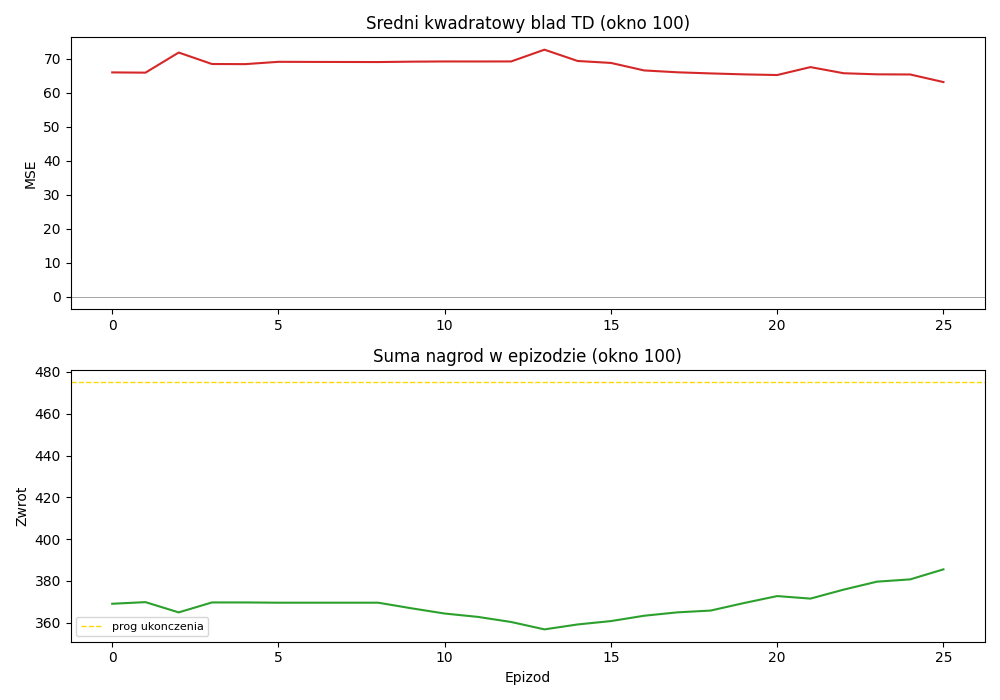
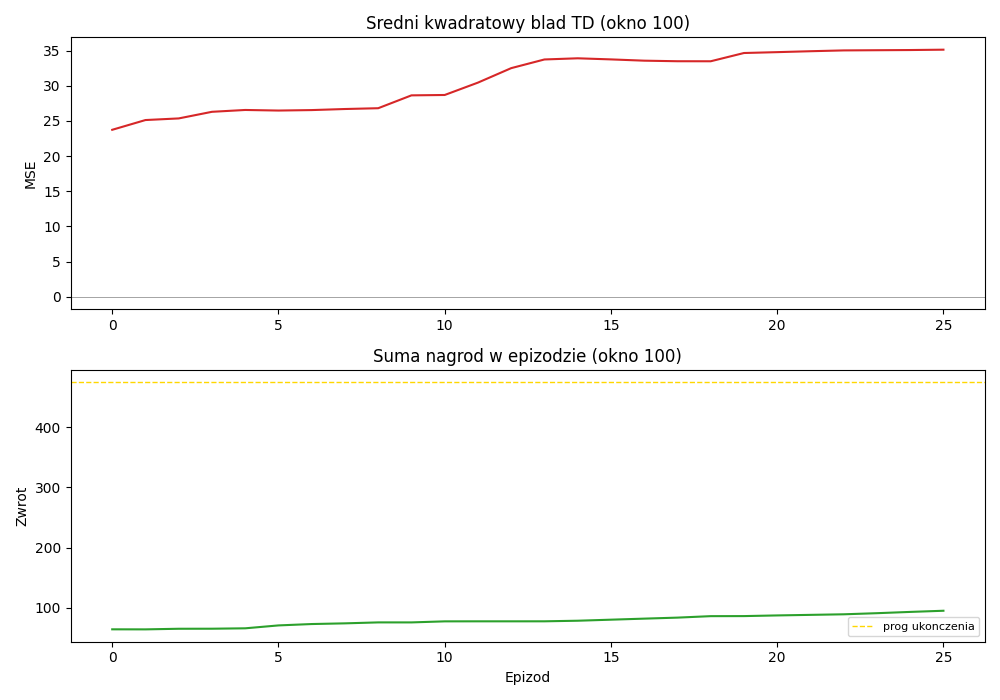
asdf

diff --git a/l4/solution.py b/l4/solution.py
@@ -198,15 +198,16 @@ class ActorCriticController:
         state: np.ndarray,
         reward: float,
         new_state: np.ndarray,
-        terminal: bool,
+        terminated: bool,
     ) -> None:
         assert self.last_action is not None
         x_s = format_state(state)
         x_s_next = format_state(new_state)
-        grads = self.compute_grads(self.last_action, x_s, x_s_next, reward, terminal)
-        self.optimizer.apply(grads, self.model.trainable_variables)
+        grads = self.compute_grads(self.last_action, x_s, x_s_next, reward, terminated)
+        with torch.no_grad():
+            self.optimizer.apply(grads, self.model.trainable_variables)
 
-    def compute_loss(self, action, x_s, x_s_next, reward, terminal):
+    def compute_loss(self, action, x_s, x_s_next, reward, terminated):
         """
         Oblicza laczna strate: L = L_krytyk + L_aktor + L_entropia
         """
@@ -218,9 +219,11 @@ class ActorCriticController:
         _, value_next = self.model(x_s_next, training=True)
         v_next = value_next[0, 0]
         r = keras.ops.cast(reward, "float32")
-        done = keras.ops.cast(terminal, "float32")
+        # Bootstrap tylko przy prawdziwym koncu MDP (terminated). Przy truncated
+        # (np. limit czasu) nadal warto bootstrappowac z V(s') — inaczej sygnal TD jest obciety.
+        term_f = keras.ops.cast(terminated, "float32")
         v_next_sg = keras.ops.stop_gradient(v_next)
-        target = r + self.gamma * (1.0 - done) * v_next_sg
+        target = r + self.gamma * (1.0 - term_f) * v_next_sg
 
         # TODO: oblicz blad TD (delta = target - V(s)) i zapisz jego kwadrat
         # do self.last_error_squared (przydatne do wykresow)
@@ -236,7 +239,9 @@ class ActorCriticController:
         # Nastepnie wybierz log-prawdopodobienstwo konkretnej wybranej akcji
         log_probs = logits_s - keras.ops.logsumexp(logits_s, axis=-1, keepdims=True)
         a = keras.ops.cast(action, "int32")
-        log_prob_a = log_probs[0, a]
+        idx = keras.ops.reshape(a, (1, 1))
+        log_prob_a = keras.ops.take_along_axis(log_probs, idx, axis=-1)
+        log_prob_a = keras.ops.reshape(log_prob_a, ())
 
         # TODO: oblicz strate aktora (policy gradient)
         # Podpowiedz: tu tez sie przyda keras.ops.stop_gradient...
@@ -251,12 +256,12 @@ class ActorCriticController:
 
         return critic_loss + actor_loss + entropy_loss
 
-    def compute_grads(self, action, x_s, x_s_next, reward, terminal):
+    def compute_grads(self, action, x_s, x_s_next, reward, terminated):
         raw = [v.value for v in self.model.trainable_variables]
         for t in raw:
             if t.grad is not None:
                 t.grad.zero_()
-        loss = self.compute_loss(action, x_s, x_s_next, reward, terminal)
+        loss = self.compute_loss(action, x_s, x_s_next, reward, terminated)
         loss.backward()
         return [t.grad if t.grad is not None else torch.zeros_like(t) for t in raw]
 
@@ -341,7 +346,7 @@ def train(env_name: str = "cartpole", resume_path: str | None = None) -> None:
             done = terminated or truncated
 
             reward = float(reward)
-            agent.learn(state, reward, next_state, done)
+            agent.learn(state, reward, next_state, terminated)
 
             state = next_state
             reward_sum += reward